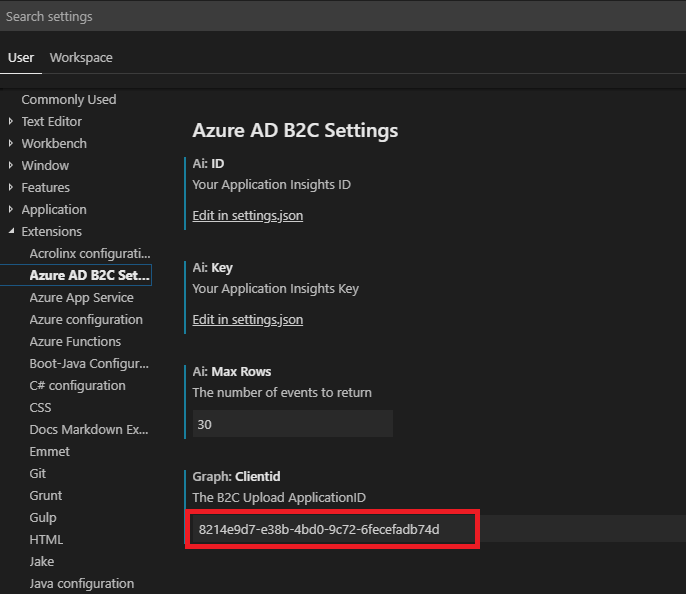
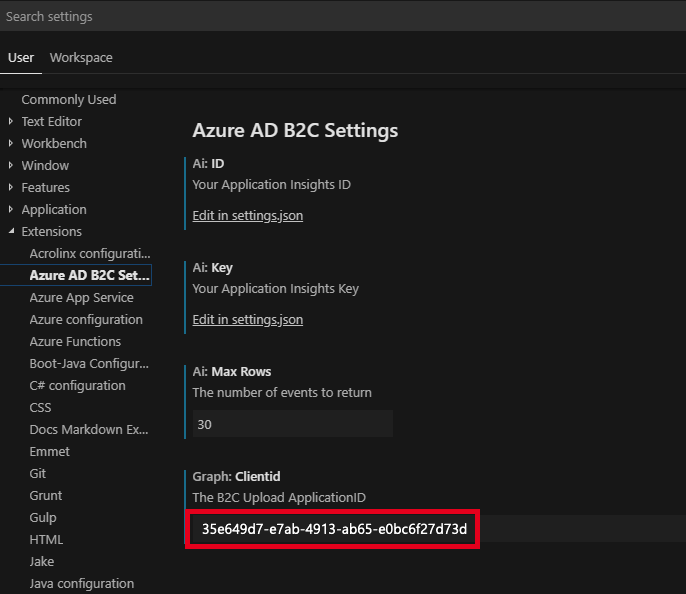
New MS Graph app registration

Changed region(s): [[0.2449, 0.8485, 0.7041, 0.9394]]

diff --git a/src/help/policy-upload.md b/src/help/policy-upload.md
@@ -1,50 +1,44 @@
 # Upload a custom polices directly from Azure AD B2C vscode extension
 
 ## Register MS Graph delegated permissions application
-To upload a policy you need to register a delegated permissions application.
 
-1. Navigate to the Azure portal.
-1. Select **Azure Active Directory** > **App Registrations (Legacy)**. Note: this version supports only Azure AD App v1
-    ![App registration](media/ms-graph-app-registration.png)
-1. For **Name**, enter `MsGraphApp`.
-1. For **Application type**, select `Native`
-1. For the **Redirect URI**, type the URL to `https://localhost`
-1. Click **Create**. 
-1. After it's created, copy the **Application ID** and save it to use later.
-    ![App ID](media/ms-graph-app-id.png)
+To upload a policy you need to register a delegated permissions application. Learn how to [register a MS Graph application](https://docs.microsoft.com/azure/active-directory-b2c/microsoft-graph-get-started?tabs=applications). In the [Grant API access section](https://docs.microsoft.com/azure/active-directory-b2c/microsoft-graph-get-started?tabs=applications#grant-api-access) select the **Delegate permissions**, and then select **Read and write your organization's trust framework policies** and select **Save**. Select **Grant permissions**, and then select **Yes**. It might take a few minutes to for the permissions to fully propagate. 
 
-Now you need to configure your application to get all the required permissions as specified in the next section
-1. After you create an Azure AD application, continuing in the Azure portal's App Registrations menu, select your application.
-1. Click on **Settings**
-1. In the **API Access** menu, click on **Required permissions**. 
-1. Click on **Add**.
-    ![App add permissions](media/ms-graph-app-permissions1.png)
-1. In the **Select API**, choose  **Microsoft Graph**, and click **Select**.
-    ![Choose MS Graph](media/ms-graph-app-permissions2.png)
-1. In the **Delegate permissions** menu, select **Read and write your organization's trust framework policies**.
-    ![Add MS Graph](media/ms-graph-app-permissions3.png)
-1. Finally, back in the **Required permissions** menu, click on the **Grant permissions** button.
-    ![policy-upload-app-grant-admin-conset.png](media/ms-graph-app-permissions4.png)
+![Add MS Graph](media/ms-graph-app-permissions.png)
 
-## Configure your VS code extension 
+After it's created, copy the Application ID: 
+
+![Copy the application ID](media/ms-graph-app-id.png)
+
+## Configure your VS code extension
+
 Within VSCode, click on the **Settings** icon.
+
 ![Settings](media/vscode-settings.png)
 
 Choose **Extensions** and then “**Azure AD B2C**” 
 In the **Graph: ClientId**, set the value of the application ID you created earlier.
+
 ![vscode-settings-msgraph.png](media/vscode-settings-msgraph.png)
 
 ## Upload a policy
+
 To upload a policy
+
 - `CTRL` + `SHIFT + P`
 - Type **B2C Upload Policy**
 - You will then see the following. Click Login to launch the browser for Device code login
+
     ![Sign-in](media/policy-upload-singin1.png)
+
 - Enter the code or paste from clipboard (the code should have already been added to the clipboard)
+
     ![Sign-in](media/policy-upload-singin2.png)
+
 - Sign-in with your Azure AD B2C tenant admin account
 
 ## Upload all policies for an environment
+
 The default environment name in the extension's settings needs to be configured before using 'Upload all policies' command. if this is not set then the extension will upload policies from the root working folder. Before uploading a specific environment run **B2C Policy Build** command.
 
 The same process for logging in to Azure should be followed (refer to the "Upload a policy" section above).
